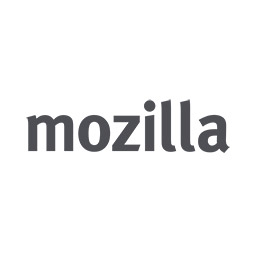
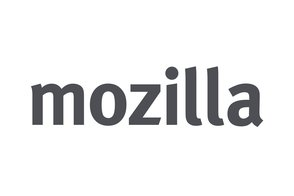
partners, home page, operations, contact pages.

diff --git a/index.html b/index.html
@@ -5,42 +5,42 @@ layout: default
 <p align="center">CoderDojo BLR is a volunteer run initiative. We teach web and app development to youth ages 7 to 21 supporting the global CoderDojo movement in different cities across India.</p>
 
 <div class="row">
-  <div class="span6">
+  <div class="span4">
 
-<p>Supported By</p>
+      <h6>How do we operate?</h6>
+        <p align="justify">We have an active network of community supported by Mozilla India, Collab House & Hive Bangalore. We host digital literacy workshops at schools, colleges and at our partner spaces...<a href="{{ site.baseurl }}/about"> more</a></p>
+        
+</div>
 
-<p><a href="{{ site.baseurl }}/partners"><img scr="/images/me.jpg" width="256" height="256"></a></p>
-<p><a href="{{ site.baseurl }}/partners"><img scr="/images/collabhouse.png" width="256" height="256"></a></p>
-<p><a href="{{ site.baseurl }}/partners"><img scr="/images/hive.jpg" width="256" height="256"></a></p>
+<div class="span4">
 
+    <h6>Event Locations</h6>
+    <p align="justify">We host most of the events at our partner spaces.</p> 
+    <p align="justify">The <a href="http://bit.ly/mozspaceblr">Mozilla Community Space Bangalore</a> and<a href="http://collab.house"> Collab House Hyderabad</a>.</p>
+    <p align="justify">Sign up <a href="{{ site.baseurl }}/events">here</a> for the next event.</p>
 
 </div>
 
+<div class="span4">
 
-
-
-
-
-<div class="span6">
-
-
-
-</div>
+    <h6>Love volunteering?</h6>
+    <p align="justify">Send us a quick <a href="mailto:bangalore.in@coderdojo.com">email</a> and we'll get back to you with details.</p>
+  
 </div>
 
-
-
+</div>
 
 
 <div class="home">
 
+<h4>Latest Blogposts</h4>
   <div class="posts">
     {% for post in paginator.posts %}
       <div class="post">
         <a href="{{ post.url | prepend: site.baseurl }}" class="post-link">
           <p class="post-meta">{{ post.date | date: "%b %-d, %Y" }}</p>
-          <h3 class="h2 post-title">{{ post.title }}</h3>
-          <p class="post-summary">{{ post.summary }}</p>
+          <h4 class="h4 post-title">{{ post.title }}</h4>
+          <p class="post-summary"><small>{{ post.summary }}</p></small>
         </a>
       </div>
     {% endfor %}
@@ -48,3 +48,16 @@ layout: default
 
   {% include pagination.html %}
 </div>
+
+<center><p><h5>Supported By</h5></p></center>
+<center>
+<br> 
+<a href="{{ site.baseurl }}/partners"><img src="/images/mozilla.jpg" width="180" height="120"></a>
+<a href="{{ site.baseurl }}/partners"><img src="/images/collabhouse.png" width="180" height="120"></a> &nbsp;
+<a href="{{ site.baseurl }}/partners"><img src="/images/hive.jpg" width="200" height="100"></a>
+
+</center>
+
+
+
+

diff --git a/contact.html b/contact.html
@@ -3,22 +3,13 @@ layout: page
 title: Contact Us
 permalink: /contact/
 ---
-<br>
-	
-</br>
 
 Want to get in touch? Here’s how to reach us:
 
 <br>
-
 </br>
-<div class="social-icons">
-<ul>
-	<a class="fa fa-envelope" href="mailto:{{ site.email }}">email</a>
-	<li>Email: <a href="mailto:bangalore.in@coderdojo.com">bangalore.in@coderdojo.com</a></li>
-	<li>Twitter: <a href="http://twitter.com/CoderDojoBLR">@CoderDojoBLR</a></li>
-	<li>Facebook: <a href="https://www.facebook.com/coderdojoindia">https://www.facebook.com/coderdojoindia</a></li>
-</ul>
-</div>
 
+<p><a class="fa fa-envelope" href="mailto:{{ site.email }}"></a>&nbsp; bangalore.in@coderdojo.com</p>
+<p><a class="fa fa-twitter" href="https://twitter.com/{{ site.twitter_username }}"></a>&nbsp; @CoderDojoBLR</p>
+<p><a class="fa fa-facebook" href="https://facebook.com/{{ site.facebook_id }}"></a>&nbsp; &nbsp;https://www.facebook.com/coderdojoindia</p>
 

diff --git a/_includes/post_footer.html b/_includes/post_footer.html
@@ -1,9 +1,10 @@
 <div class="py2 post-footer">
-  <img src="/images/me.jpeg" alt="CoderDojo BLR" class="avatar" />
+<!--  <img src="/images/me.jpeg" alt="CoderDojo BLR" class="avatar" /> -->
   <p>
+  <small>
     We are a volunteer group based in India teaching kids about web and app development.
-  </p>
-  <p>
+    </small>
+  <br>
+  <small>
     Follow us on <a href="https://twitter.com/CoderDojoBLR">Twitter</a>.
-  </p>
-</div>
+  </div>

diff --git a/partners.md b/partners.md
@@ -1,0 +1,37 @@
+---
+layout: page
+title: Partners
+permalink: /partners/
+---
+
+<div class="row">
+  <div class="span4">
+<center><a href="https://www.mozilla.org/"><img src="/images/mozilla.jpg" width="180" height="120"></a></center>
+</div>
+
+<div class="span4">
+<center><a href="http://collab.house/"><img src="/images/collabhouse.png" width="180" height="120"></a></center>
+</div>
+
+<div class="span4">
+<center><a href="http://hive.mozillaindia.org/"><img src="/images/hive.jpg" width="200" height="100"></a></center>
+</div>
+
+</div>
+
+<p><h5>Sponsorship</h5></p>
+
+<p>We are always looking to expand and provide more opportunities for underrepresented youth.</p>
+
+<p>Equipment
+<ul>
+	<li>Laptops</li>
+    <li>Hardware</li>
+</ul>
+</p>
+
+<p>Operations
+<ul>
+	<li>Food & Drinks</li>
+</ul>
+</p>
